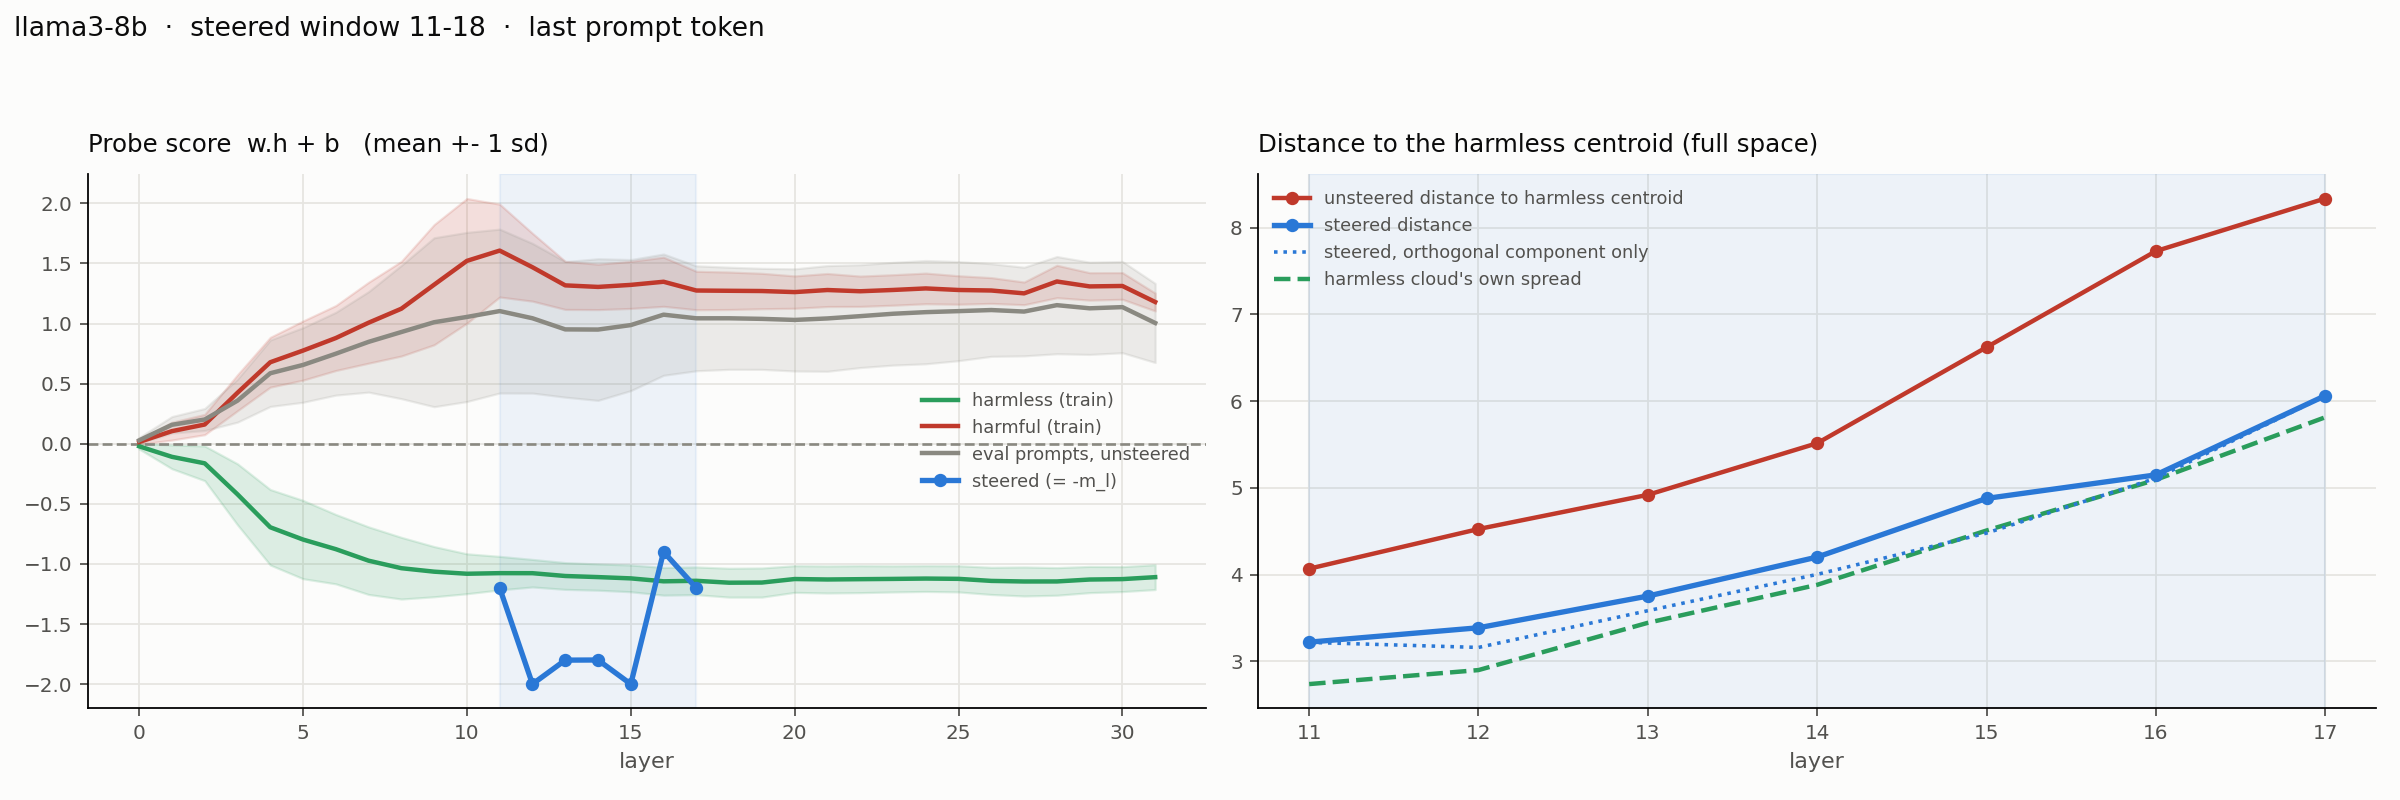
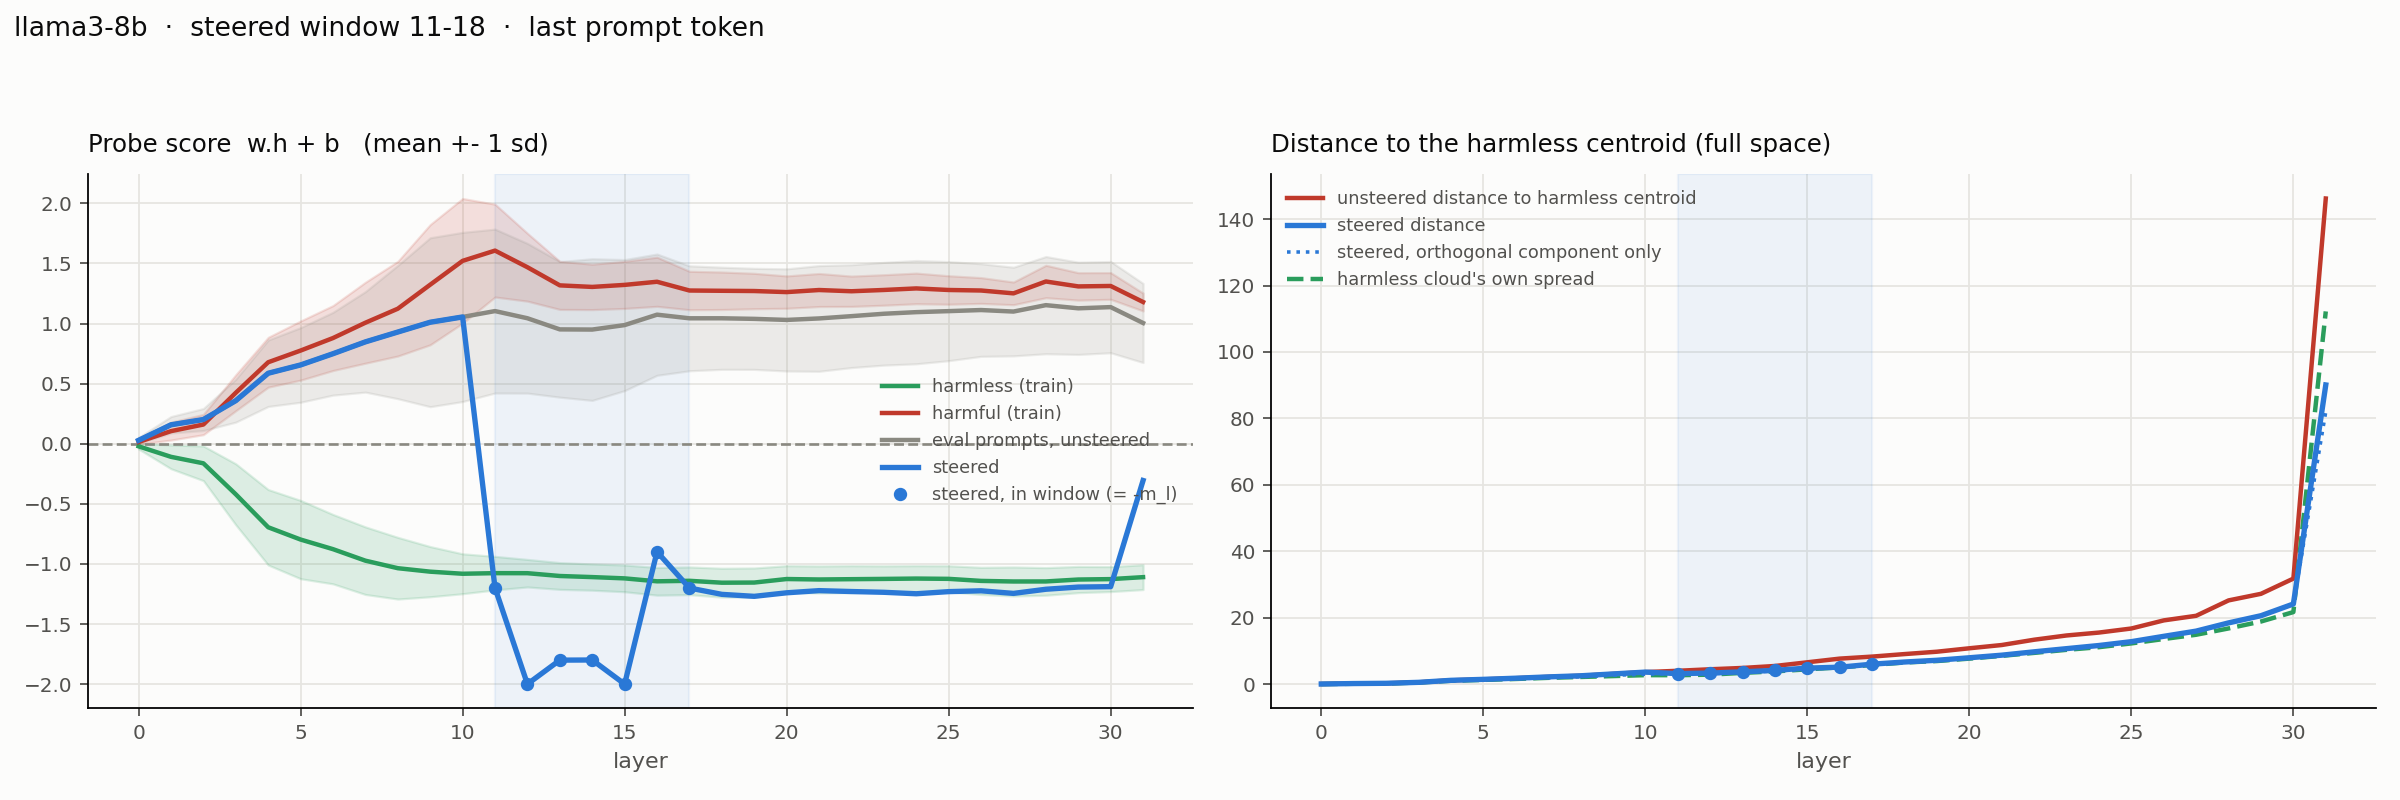
Plot steered score/distance across all layers; add --replot
Left panel now draws the steered probe score for every layer, not just the
window, so downstream persistence is visible: past the window the score stays
near -1.2 rather than reverting to the unsteered +1.0, matching the table.
Markers still flag the steered window (= -m_l).

--replot <json> re-renders from a saved results JSON with no model load (no GPU),
since every layer's steered stats are already captured. Both llama3-8b plots
regenerated this way.

Known: the distance panel is dominated by depth-driven norm growth and the L31
post-RMSNorm artifact; normalize (distance/spread, or drop L31) next.

diff --git a/experiments/probe_score_distributions.py b/experiments/probe_score_distributions.py
@@ -109,7 +109,21 @@ def main():
     ap.add_argument("--out_dir", default="./experiments/results")
     ap.add_argument("--out_tag", default=None)
     ap.add_argument("--seed", type=int, default=0)
+    ap.add_argument("--replot", default=None,
+                    help="Path to a saved *_distributions_*.json; re-render the plot from it "
+                         "with no model load (no GPU). Ignores all run-time args.")
     args = ap.parse_args()
+
+    if args.replot:
+        with open(args.replot) as f:
+            data = json.load(f)
+        rows = data["rows"]
+        for r in rows:
+            r.setdefault("in_window", r["layer"] in set(data["window"]))
+        out_path = args.replot.replace(".json", ".png")
+        plot(rows, data["window"], [r["layer"] for r in rows], out_path,
+             data["model"], f"{min(data['window'])}-{max(data['window']) + 1}")
+        return
 
     set_seed(args.seed)
     device = torch.device(args.device)
@@ -295,26 +309,36 @@ def plot(rows, window, all_layers, out_path, model_name, layers_arg):
         axes[0].fill_between(xs, [m - s for m, s in zip(mu, sd)], [m + s for m, s in zip(mu, sd)],
                              color=color, alpha=0.15, zorder=2)
 
-    sx = [r["layer"] for r in rows if r["in_window"]]
-    sy = [r["steered"]["mean"] for r in rows if r["in_window"]]
-    axes[0].plot(sx, sy, color=STEER_C, linewidth=2.4, marker="o", markersize=5,
-                 label="steered (= -m_l)", zorder=4)
+    # Steered score across ALL layers: a continuous line so the downstream decay
+    # (layers past the window, never directly steered) is visible, with markers on the
+    # steered window itself.
+    win = set(r["layer"] for r in rows if r["in_window"])
+    steer_mu = [r["steered"]["mean"] for r in rows]
+    axes[0].plot(xs, steer_mu, color=STEER_C, linewidth=2.4, label="steered", zorder=4)
+    wx = [r["layer"] for r in rows if r["in_window"]]
+    wy = [r["steered"]["mean"] for r in rows if r["in_window"]]
+    axes[0].plot(wx, wy, color=STEER_C, linewidth=0, marker="o", markersize=5,
+                 label="steered, in window (= -m_l)", zorder=5)
     axes[0].axhline(0, color="#8a8981", linewidth=1.2, linestyle="--", zorder=2)
     axes[0].set_title("Probe score  w.h + b   (mean +- 1 sd)", color=INK, fontsize=11, loc="left", pad=10)
     axes[0].legend(frameon=False, fontsize=8, labelcolor=INK_MUTED)
 
-    total = [r["dist_steered"]["total"] for r in rows if r["in_window"]]
-    orth = [r["dist_steered"]["orthogonal"] for r in rows if r["in_window"]]
-    clean = [r["dist_clean"]["total"] for r in rows if r["in_window"]]
-    spread = [r["harmless_spread"] for r in rows if r["in_window"]]
-    axes[1].plot(sx, clean, color=HARMFUL_C, linewidth=2, marker="o", markersize=5,
+    # Distance panel, also across all layers. Downstream the orthogonal component keeps
+    # tracking the total (probe stays blind to the intervention it inherited).
+    total = [r["dist_steered"]["total"] for r in rows]
+    orth = [r["dist_steered"]["orthogonal"] for r in rows]
+    clean = [r["dist_clean"]["total"] for r in rows]
+    spread = [r["harmless_spread"] for r in rows]
+    axes[1].plot(xs, clean, color=HARMFUL_C, linewidth=2,
                  label="unsteered distance to harmless centroid", zorder=3)
-    axes[1].plot(sx, total, color=STEER_C, linewidth=2.4, marker="o", markersize=5,
+    axes[1].plot(xs, total, color=STEER_C, linewidth=2.4,
                  label="steered distance", zorder=4)
-    axes[1].plot(sx, orth, color=STEER_C, linewidth=1.6, linestyle=":", marker=None,
+    axes[1].plot(xs, orth, color=STEER_C, linewidth=1.6, linestyle=":",
                  label="steered, orthogonal component only", zorder=4)
-    axes[1].plot(sx, spread, color=HARMLESS_C, linewidth=2, linestyle="--",
+    axes[1].plot(xs, spread, color=HARMLESS_C, linewidth=2, linestyle="--",
                  label="harmless cloud's own spread", zorder=3)
+    axes[1].plot(wx, [r["dist_steered"]["total"] for r in rows if r["in_window"]],
+                 color=STEER_C, linewidth=0, marker="o", markersize=5, zorder=5)
     axes[1].set_title("Distance to the harmless centroid (full space)",
                       color=INK, fontsize=11, loc="left", pad=10)
     axes[1].legend(frameon=False, fontsize=8, labelcolor=INK_MUTED)
